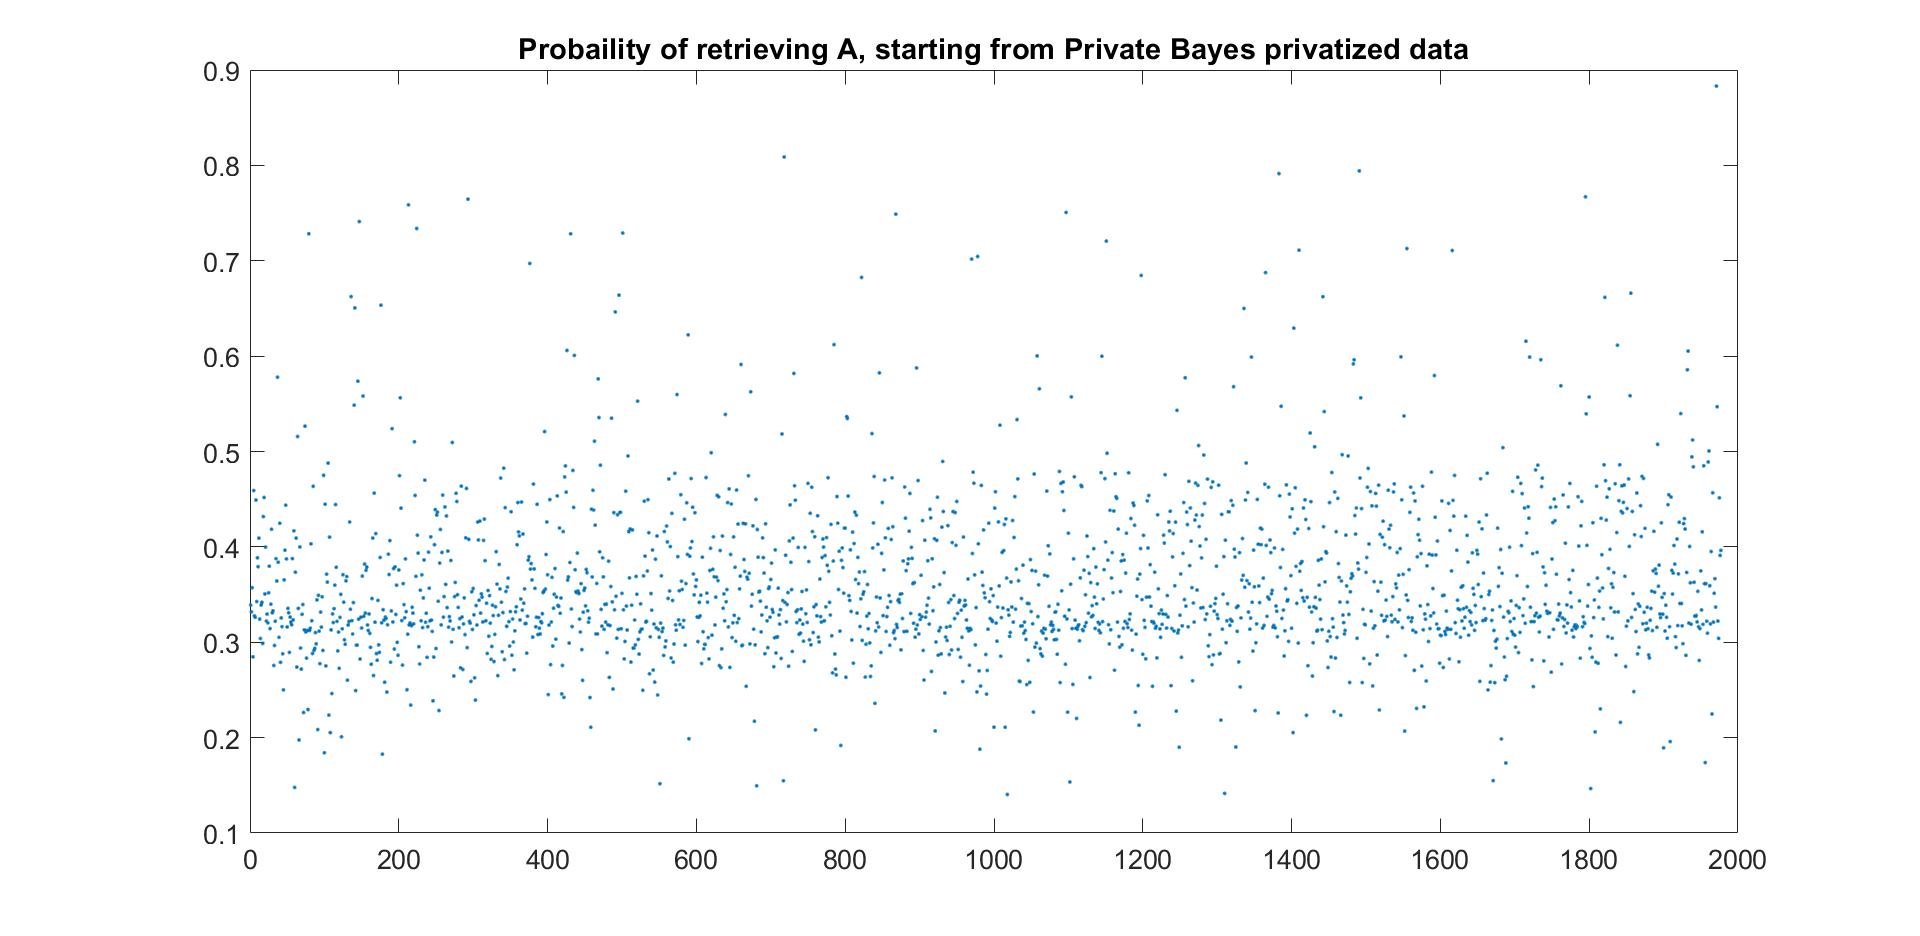
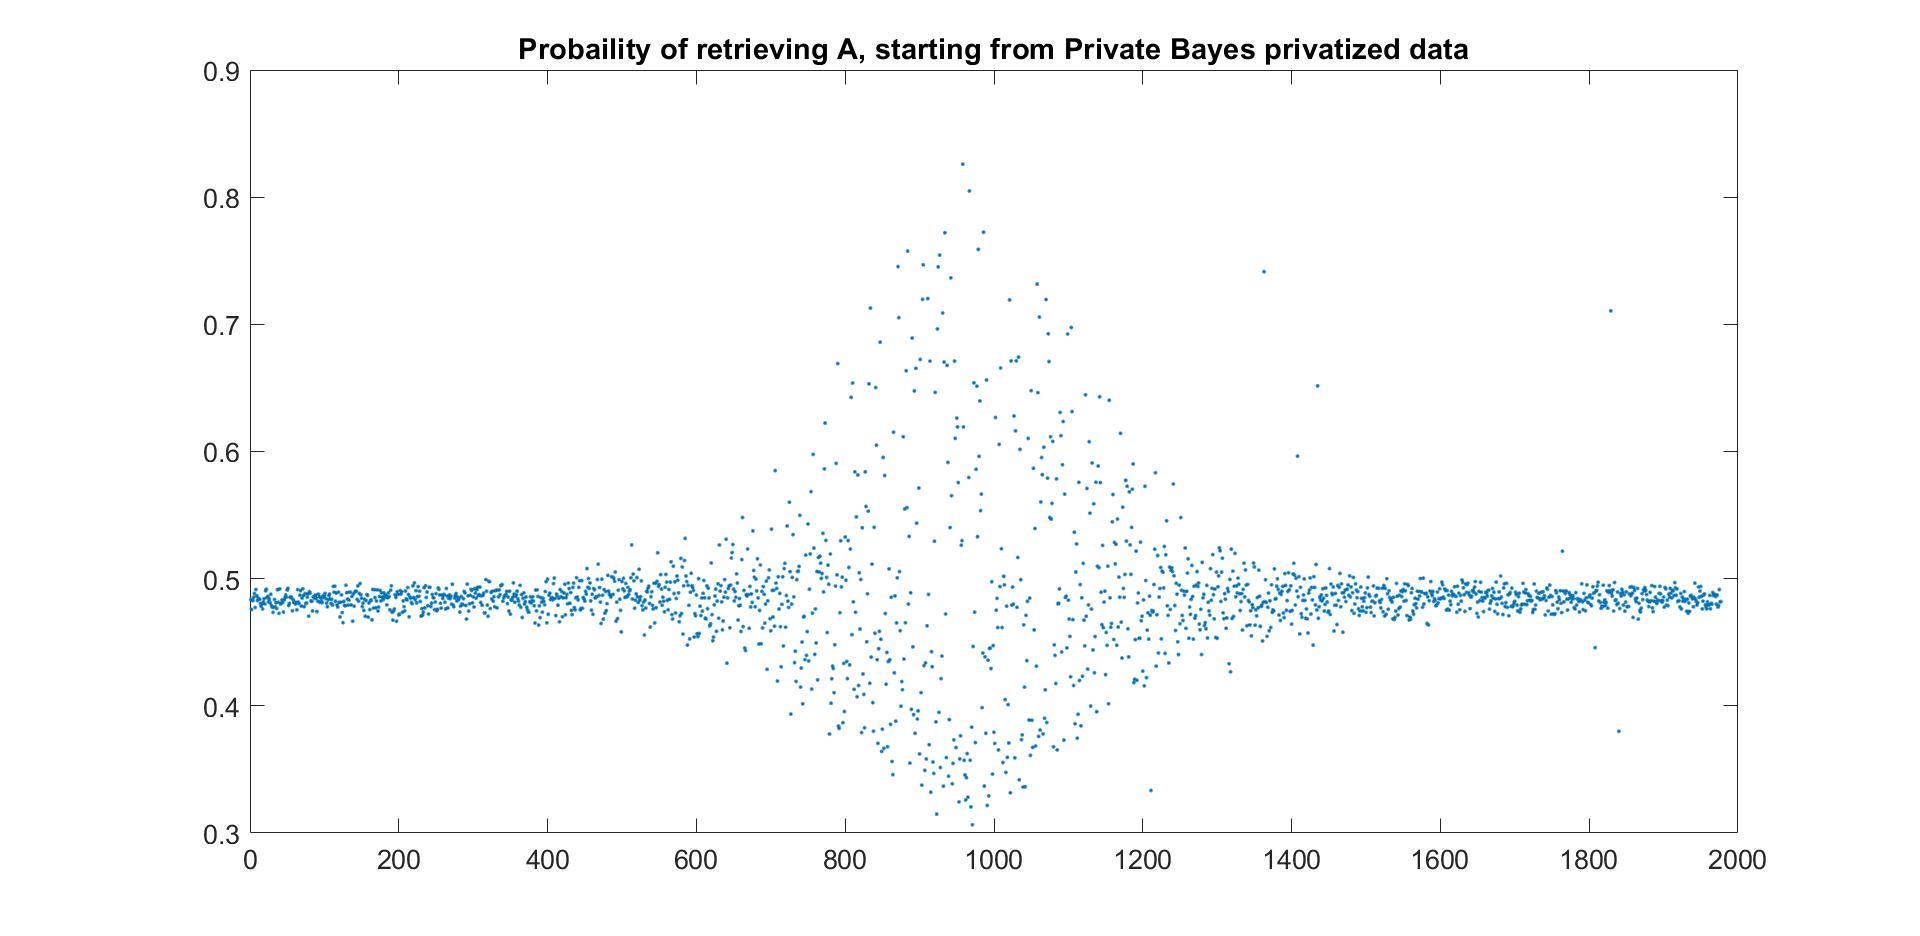
Tests

diff --git a/Test.m b/Test.m
@@ -2,12 +2,38 @@ clear
 close all
 
 load brca_mRNA_1977patients.mat
-load brca_mRNA_1977patients_iteration_12_.mat
+
 
 M(A, A)
 
 [ m, n ] = size(A)
-priv_Bayes = M(A, A_1)
+
+load brca_mRNA_patients_BayNet_n20_deg2_eps0_seed_3.mat
+BayNet = M(A, A_1)
+
+load brca_mRNA_patients_embedding_dim128_gen_dim256_dis_dim256_l2scale1e-06_batch_size500_epochs500.mat
+CTGAN = M(A, A_1)
+
+load syntheticData_mixedNetwork_test_fast_root_index_11.mat
+MIIC = M(A, A_1)
+
+a_mean = mean(A);
+a1_mean = mean(A_1);
+
+probs = zeros(1,m);
+for i=1:m
+    a_i = A_1(i,:);    
+    probs(i) = probability(a_i, a1_mean, A, a_mean);     
+end
+
+figure
+plot(probs,'.')
+title('Probaility of retrieving A, starting from MIIC privatized data')
+set(gca, 'FontSize', 16)
+
+
+load brca_mRNA_patients_PrivBayes_n20_deg2_eps1_seed_8.mat
+privBayes = M(A,A_1)
 
 a_mean = mean(A);
 a1_mean = mean(A_1);
@@ -24,10 +50,4 @@ title('Probaility of retrieving A, starting from Private Bayes privatized data')
 set(gca, 'FontSize', 16)
 
 load brca_mRNA_1977patients_iteration_12_.mat
-
-BayNet = M(A, A_1)
-
-load brca_mRNA_patients_embedding_dim128_gen_dim256_dis_dim256_l2scale1e-06_batch_size500_epochs500.mat
-
-CTGAN = M(A, A_1)
-
+Synthpop = M(A, A_1)
